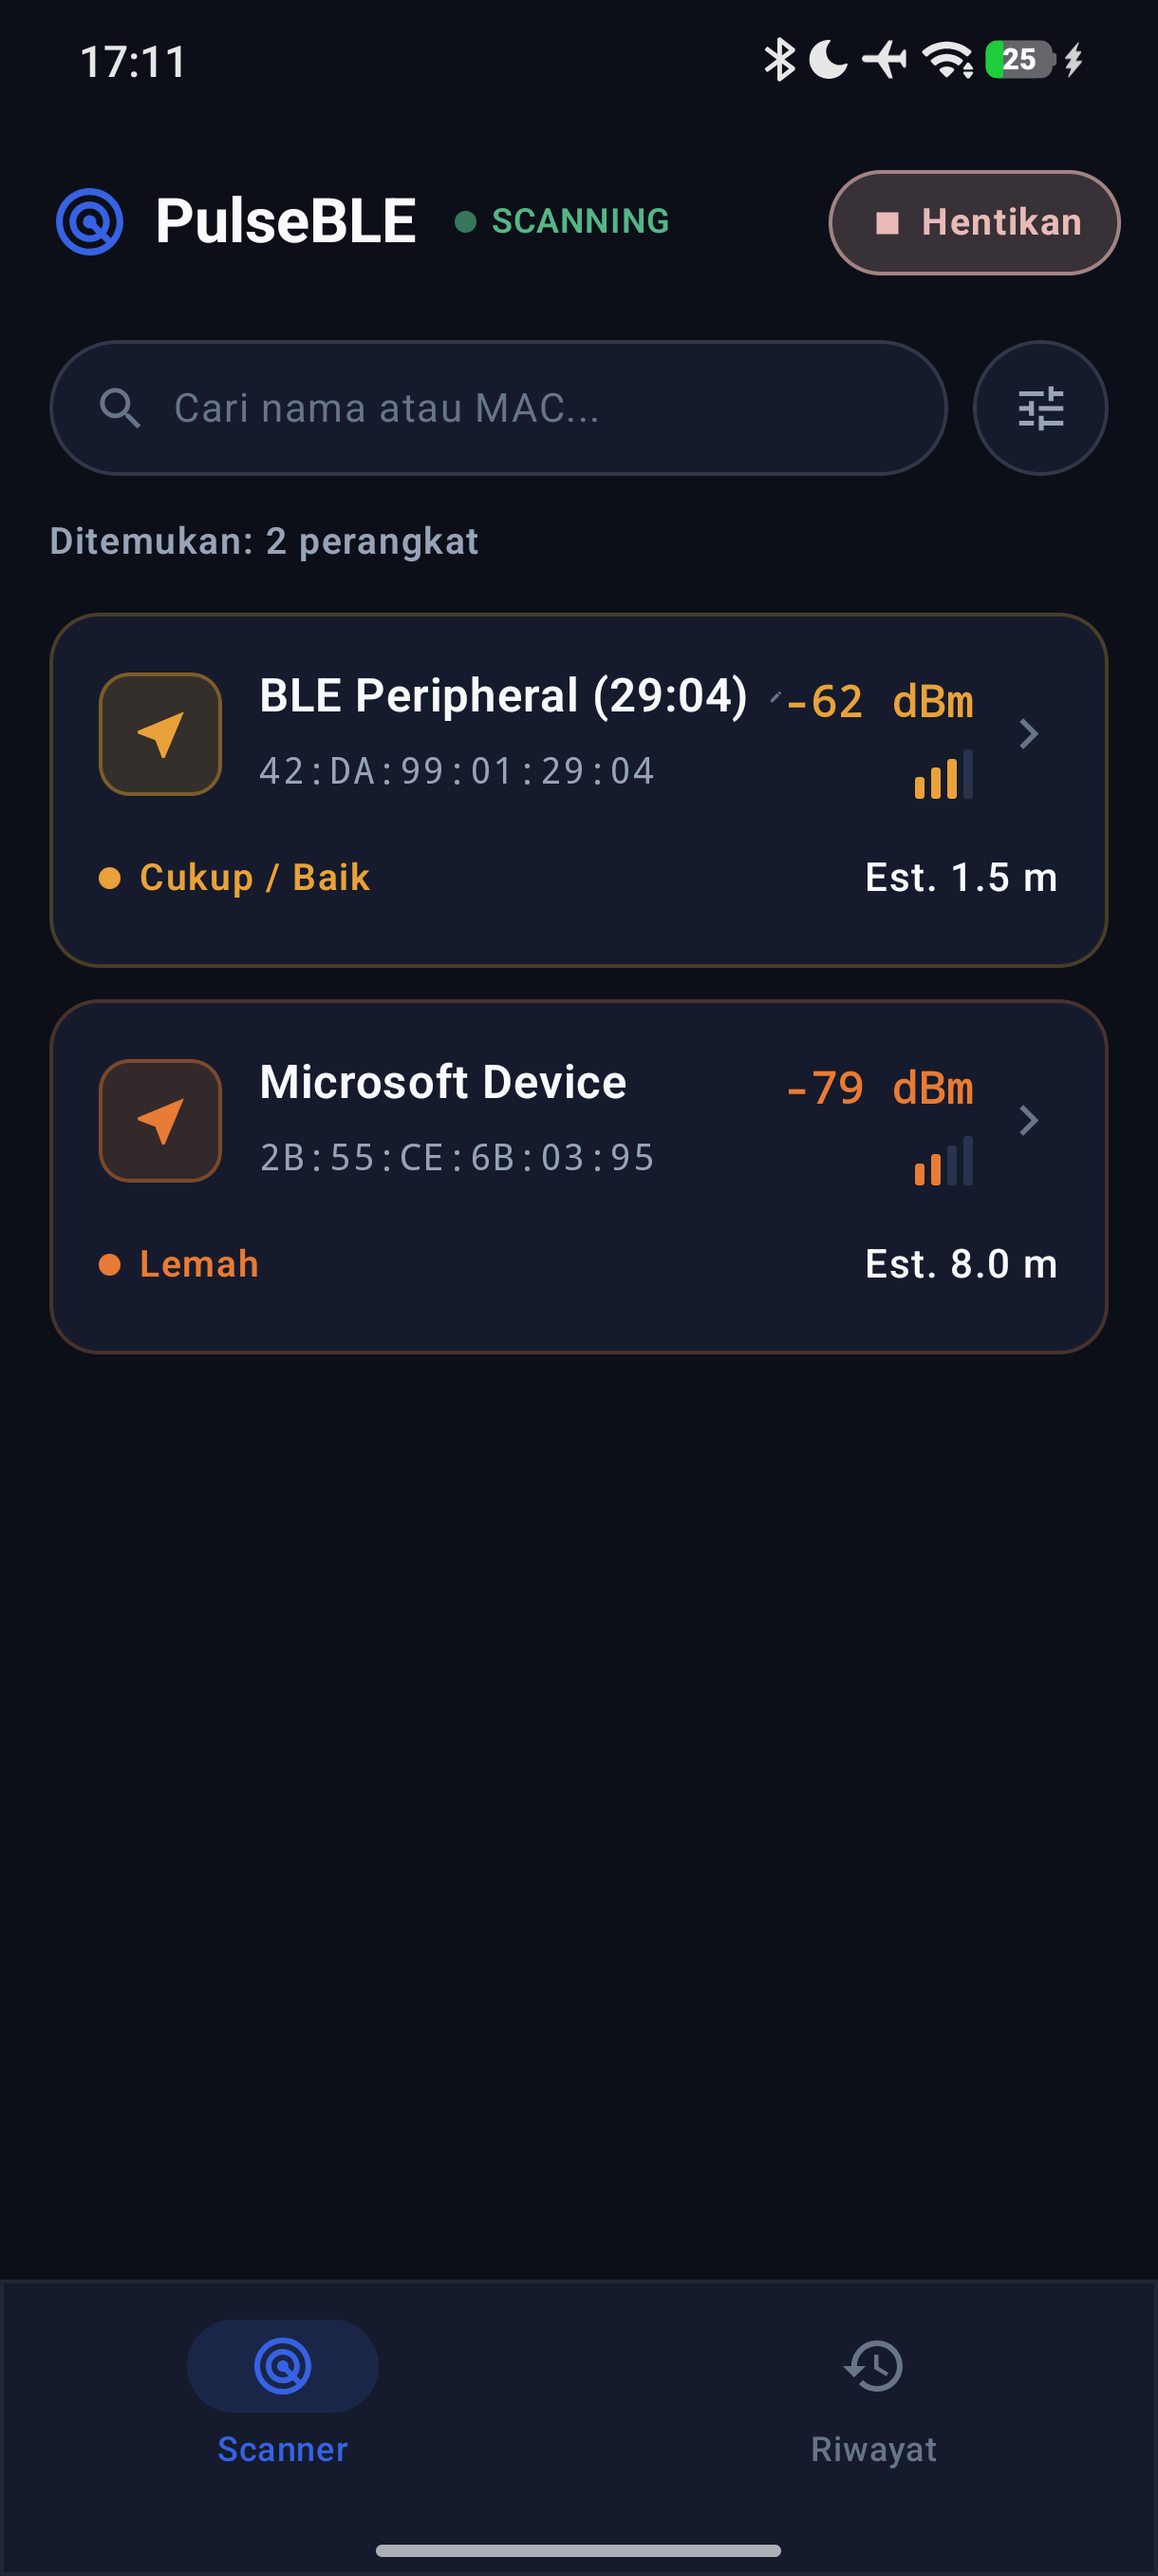
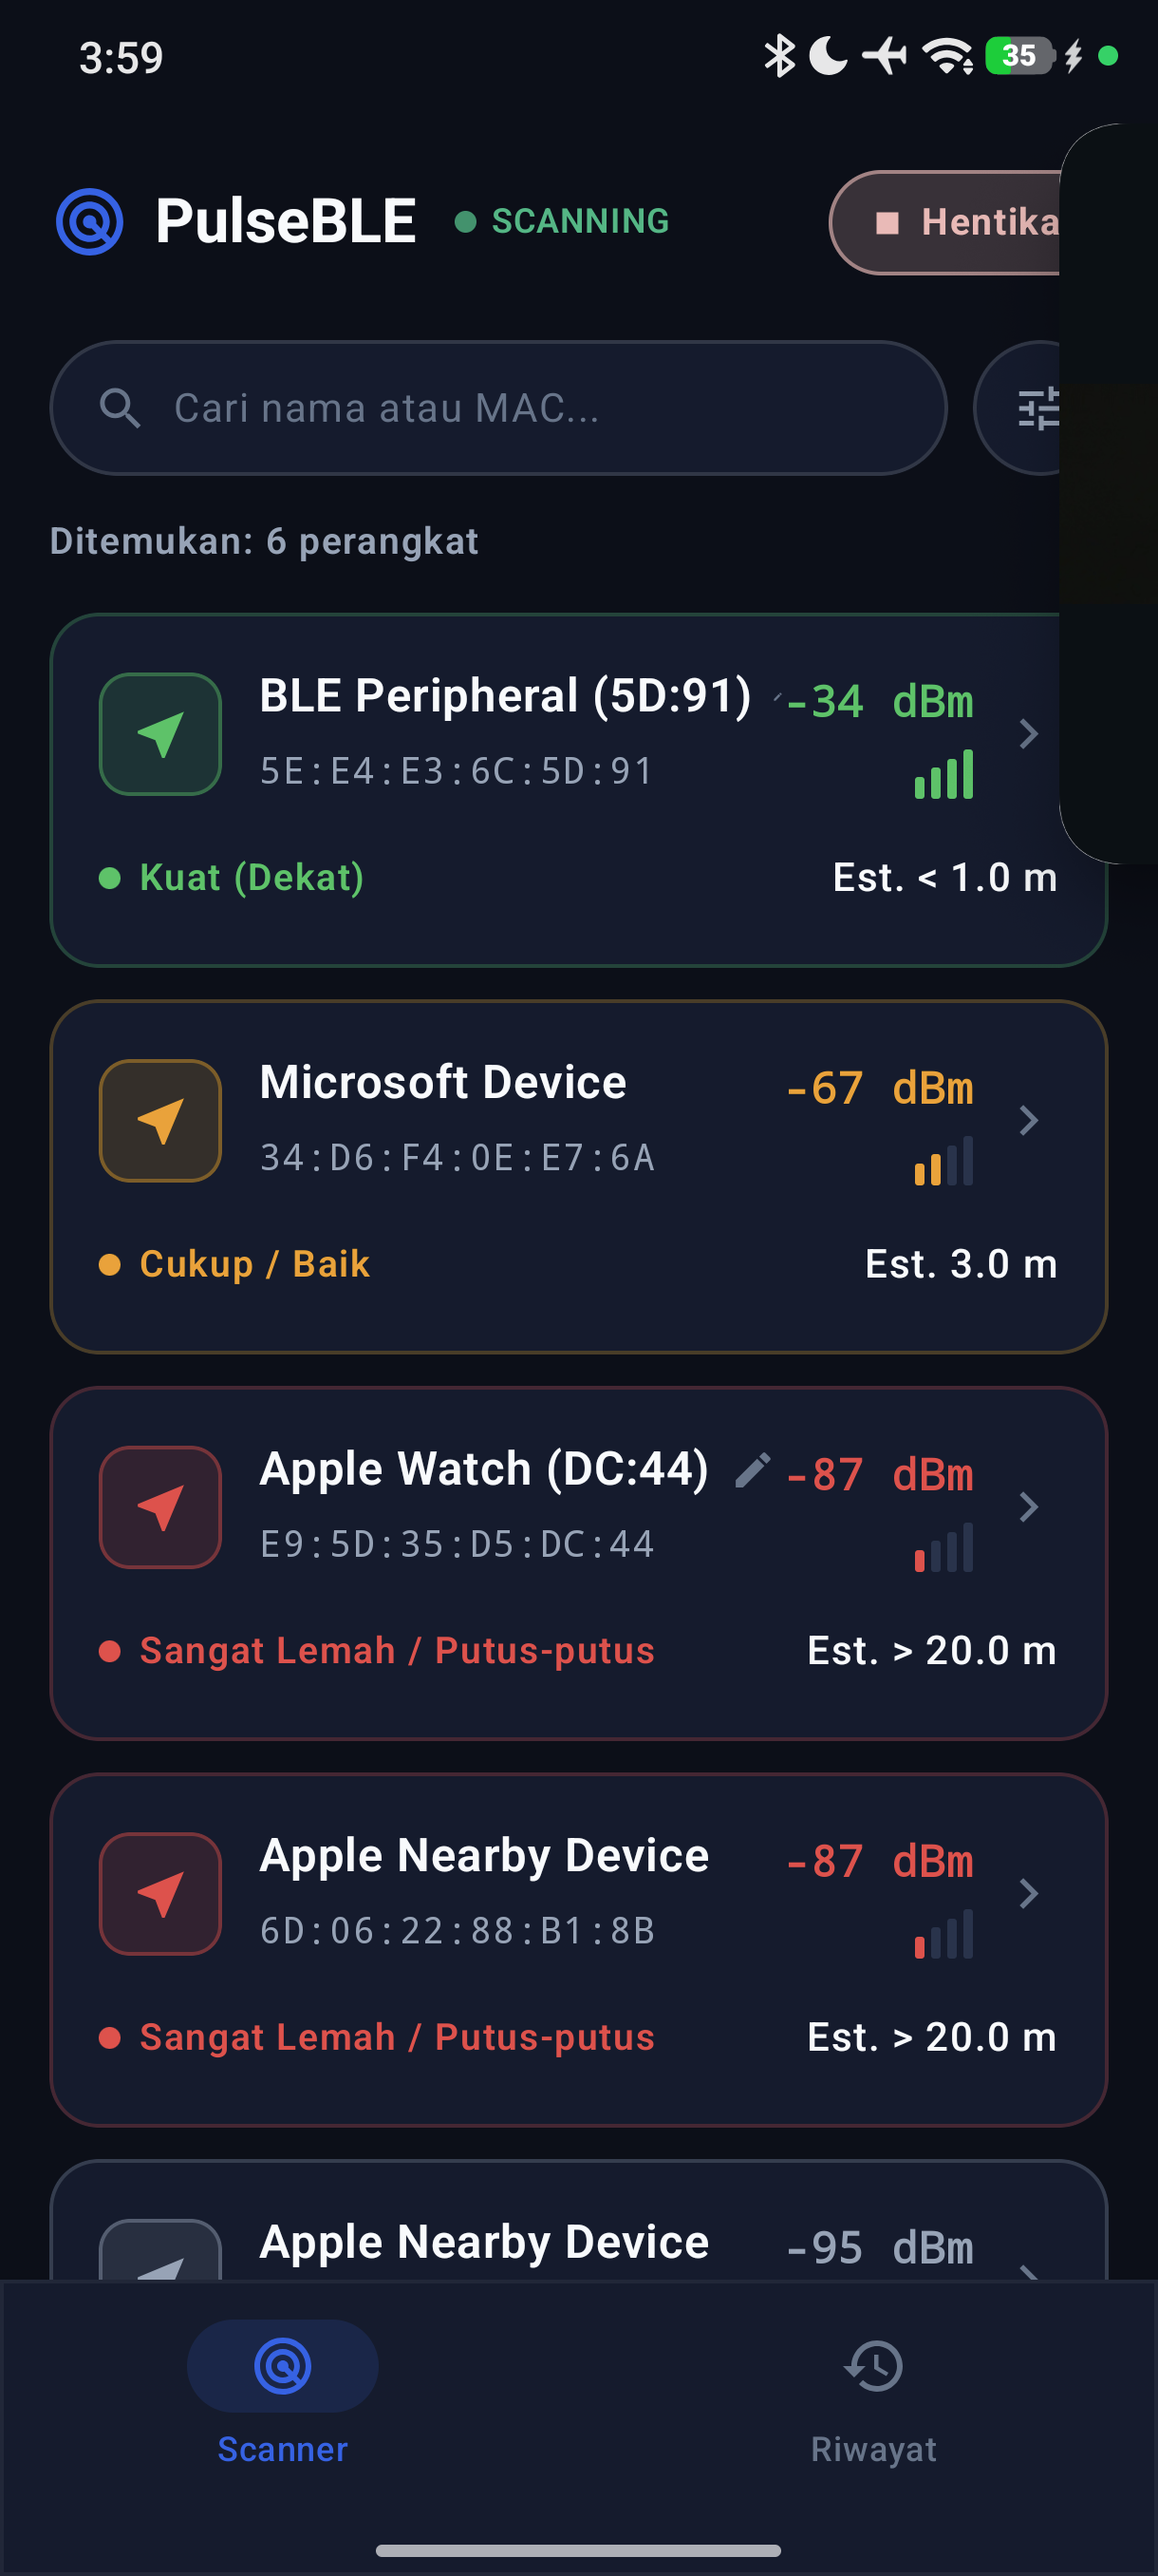
fix(ux): anchor list scroll position and add smooth item reorder animation

diff --git a/app/src/main/java/com/anantyan/pulseble/presentation/scanner/ScannerScreen.kt b/app/src/main/java/com/anantyan/pulseble/presentation/scanner/ScannerScreen.kt
@@ -61,9 +61,11 @@ import androidx.compose.material3.TopAppBarDefaults
 import androidx.compose.runtime.Composable
 import androidx.compose.runtime.LaunchedEffect
 import androidx.compose.runtime.getValue
+import androidx.compose.runtime.mutableIntStateOf
 import androidx.compose.runtime.mutableStateOf
 import androidx.compose.runtime.remember
 import androidx.compose.runtime.setValue
+import androidx.compose.runtime.snapshotFlow
 import androidx.compose.ui.Alignment
 import androidx.compose.ui.Modifier
 import androidx.compose.ui.draw.clip
@@ -121,6 +123,52 @@ fun ScannerScreen(
     var renamingDevice by remember { mutableStateOf<BleDevice?>(null) }
     var isSearchVisible by remember { mutableStateOf(true) }
     val listState = rememberLazyListState()
+
+    var isAtTop by remember { mutableStateOf(true) }
+    var anchoredKey by remember { mutableStateOf<String?>(null) }
+    var anchoredOffset by remember { mutableIntStateOf(0) }
+
+    // Track user scroll position without fighting manual dragging
+    LaunchedEffect(listState) {
+        snapshotFlow {
+            val inProgress = listState.isScrollInProgress
+            val isTop = listState.firstVisibleItemIndex == 0 && listState.firstVisibleItemScrollOffset == 0
+            val topVisibleKey = listState.layoutInfo.visibleItemsInfo.firstOrNull()?.key as? String
+            val offset = listState.firstVisibleItemScrollOffset
+            Triple(inProgress, isTop, Pair(topVisibleKey, offset))
+        }.collect { (inProgress, isTop, keyAndOffset) ->
+            isAtTop = isTop
+            if (!isTop && keyAndOffset.first != null) {
+                anchoredKey = keyAndOffset.first
+                anchoredOffset = keyAndOffset.second
+            }
+        }
+    }
+
+    // Lock and anchor scroll position across real-time list updates
+    LaunchedEffect(state.devices) {
+        if (listState.isScrollInProgress || state.devices.isEmpty()) return@LaunchedEffect
+
+        if (isAtTop) {
+            // Posisi on-top tetap terkunci pada item teratas (index 0, offset 0)
+            // Setiap item baru/lebih kuat langsung muncul di posisi atas dan item terdorong ke bawah
+            // Tanpa ada item tersembunyi di atas layar yang memaksa user scroll ke atas
+            if (listState.firstVisibleItemIndex != 0 || listState.firstVisibleItemScrollOffset != 0) {
+                listState.scrollToItem(0, 0)
+            }
+        } else {
+            // Posisi on-middle / on-bottom tetap terkunci pada item yang sedang dilihat pengguna
+            // sehingga konten tidak meloncat ketika terjadi pergeseran ranking RSSI
+            anchoredKey?.let { targetKey ->
+                val targetIndex = state.devices.indexOfFirst { it.macAddress == targetKey }
+                if (targetIndex >= 0) {
+                    if (listState.firstVisibleItemIndex != targetIndex || listState.firstVisibleItemScrollOffset != anchoredOffset) {
+                        listState.scrollToItem(targetIndex, anchoredOffset)
+                    }
+                }
+            }
+        }
+    }
 
     val context = LocalContext.current
     BackHandler {
@@ -512,6 +560,7 @@ fun ScannerScreen(
                     key = { it.macAddress }
                 ) { device ->
                     BleDeviceCard(
+                        modifier = Modifier.animateItem(),
                         device = device,
                         onClick = { onDeviceClick(device.macAddress) },
                         onRenameClick = { renamingDevice = device }

diff --git a/app/src/main/java/com/anantyan/pulseble/presentation/history/HistoryScreen.kt b/app/src/main/java/com/anantyan/pulseble/presentation/history/HistoryScreen.kt
@@ -322,6 +322,7 @@ fun HistoryScreen(
                     key = { it.macAddress }
                 ) { device ->
                     HistoryItemCard(
+                        modifier = Modifier.animateItem(),
                         device = device,
                         onTrackClick = { onTrackDeviceClick(device.macAddress) },
                         onDeleteClick = { onDeleteDeviceClick(device.macAddress) }

diff --git a/GEMINI.md b/GEMINI.md
@@ -189,6 +189,12 @@ com.anantyan.pulseble/
 4. **Pengujian Menyeluruh**:
    * 100% unit tests lolos tanpa kegagalan library.
    * E2E live validation pada Xiaomi POCO fisik via Wireless ADB.
+5. **Stabilitas Posisi Scroll & Animasi Re-order Real-Time**:
+   * Mengimplementasikan pelacakan `isAtTop` dan `anchoredKey` via `snapshotFlow` pada `LazyListState`.
+   * Saat berada di posisi paling atas (*top*), list dikunci pada index 0 offset 0 sehingga item dengan RSSI lebih kuat langsung tampil di atas dan item terdorong ke bawah secara alami tanpa ada item tersembunyi di atas layar yang memaksa pengguna scroll ke atas.
+   * Saat berada di tengah (*middle/bottom*), posisi scroll terkunci pada item yang sedang dibaca pengguna agar tampilan tidak meloncat saat ranking RSSI berganti.
+   * Penyesuaian otomatis di-pause saat `listState.isScrollInProgress` aktif guna mencegah benturan (*scroll fighting*) dengan jari pengguna.
+   * Menambahkan `Modifier.animateItem()` pada kartu perangkat sehingga transisi pergeseran naik-turun bergerak mengalir halus.
 
 ---
 
